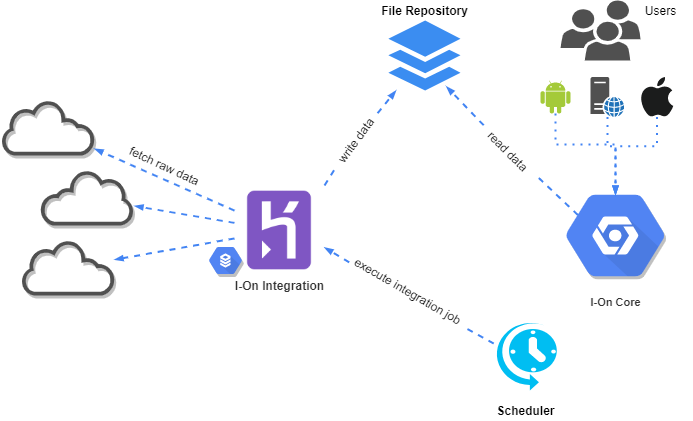
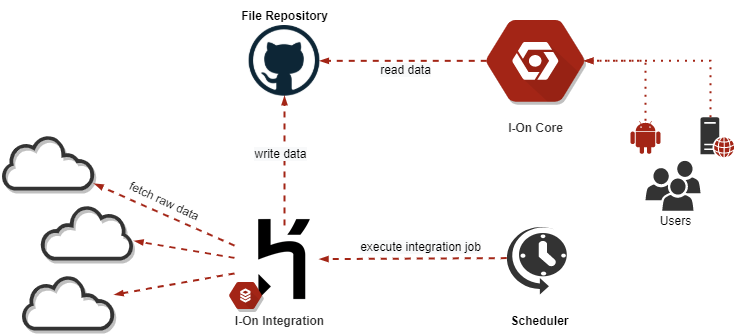
Minor improvement with stating that integration data is available publicly for consumption by anyone. New version of architecture diagram.

diff --git a/README.md b/README.md
@@ -22,7 +22,7 @@ Academic information such as class schedules or academic calendars is often scat
 
 ![I-On Integration Architecture](img/ion_integration_architecture.png)
 
-**I-On Integration** uses *batch processing* techniques to acquire and process all unstructured data and write it to the common **File Repository** (a Git repo whose sole purpose is to host this data).
+**I-On Integration** uses *batch processing* techniques to acquire and process all unstructured data and write it to the common **File Repository** (a Git repo whose sole purpose is to host this data). The data is available for anyone that wishes to use their data on their own projects. It is available at [GitHub i-on Integration Data repository](https://github.com/i-on-project/integration-data).
 
 The **Scheduler** component, as the name suggests, is responsible for periodically triggering job executions through Integration's Web API (not yet available).
 
